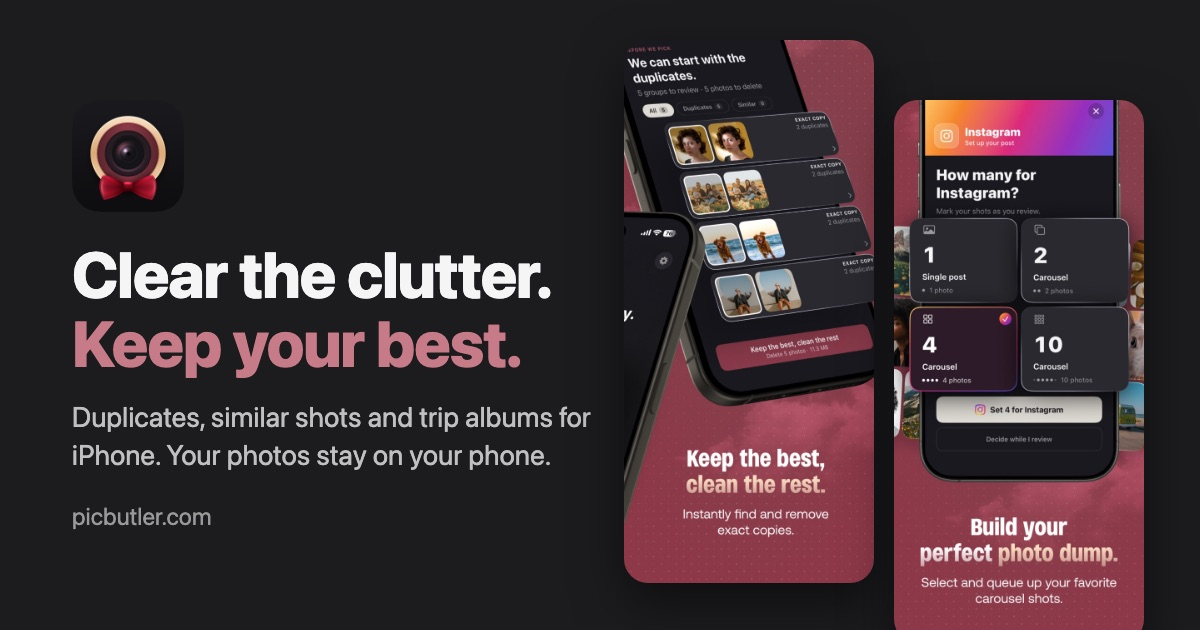
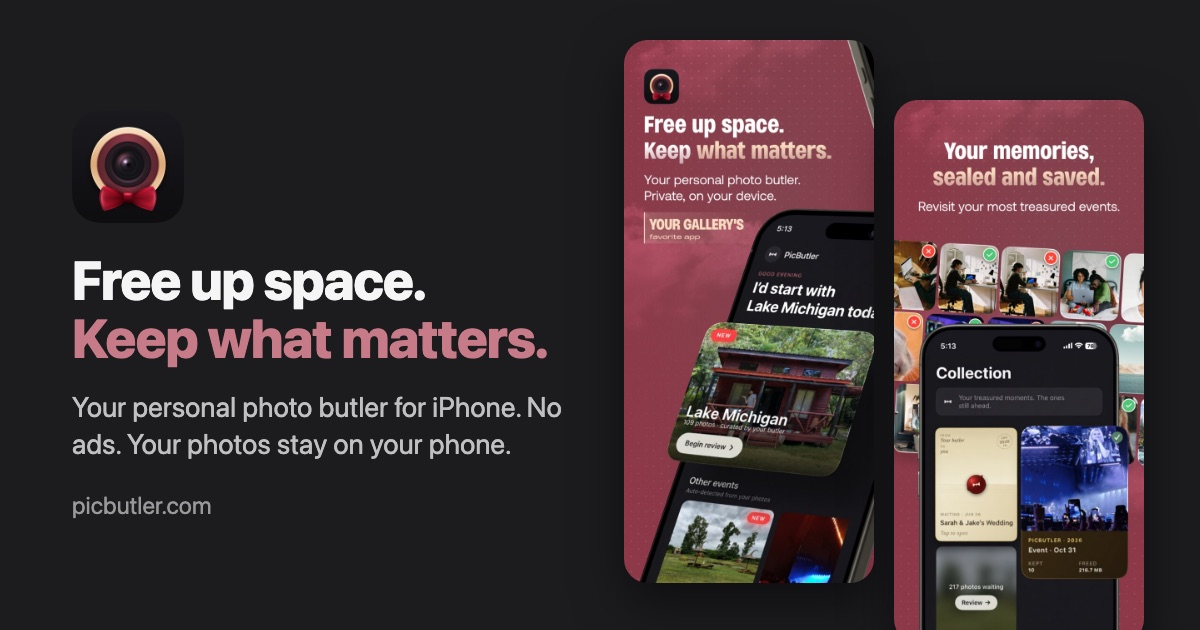
Positioning: 'Free up space. Keep what matters.' and the personal photo butler sentence everywhere; no ads; no AI slop; AI FAQ; new share image

diff --git a/index.html b/index.html
@@ -3,11 +3,11 @@
 <head>
     <meta charset="UTF-8">
     <meta name="viewport" content="width=device-width, initial-scale=1.0">
-    <title>PicButler: Photo Cleaner and Album Maker for iPhone</title>
-    <meta name="description" content="PicButler finds duplicate and similar photos on your iPhone, keeps the best shot, and turns your trips into albums. Your photos never leave your phone.">
+    <title>PicButler: Free Up Space, Keep What Matters</title>
+    <meta name="description" content="Free up space. Keep what matters. PicButler is your personal photo butler for iPhone: it keeps the photos you love as albums in Apple Photos. No ads.">
     <link rel="canonical" href="https://picbutler.com/">
-    <meta property="og:title" content="PicButler: Photo Cleaner and Album Maker for iPhone">
-    <meta property="og:description" content="Clear the clutter, keep your best, and turn your trips into albums. Everything runs on your iPhone.">
+    <meta property="og:title" content="PicButler: Free up space. Keep what matters.">
+    <meta property="og:description" content="Your personal photo butler for iPhone. It frees up storage and keeps the photos you love as albums. No ads, and your photos never leave your phone.">
     <meta property="og:type" content="website">
     <meta property="og:url" content="https://picbutler.com/">
     <meta property="og:image" content="https://picbutler.com/assets/picbutler-photo-cleaner-iphone.jpg">
@@ -35,7 +35,7 @@
           "@type": "MobileApplication",
           "@id": "https://picbutler.com/#app",
           "name": "PicButler: Photo Cleaner",
-          "description": "An iPhone app that finds duplicate and similar photos, keeps the best shot of each group with an explanation, and turns trips and events into albums in Apple Photos. Photo analysis runs on the iPhone.",
+          "description": "PicButler is your personal photo butler for iPhone. It frees up storage by going through your camera roll with you, month by month: it clears the clutter, helps you keep only the photos you love from every trip and event, and saves them as albums in Apple Photos. Everything stays on your phone.",
           "operatingSystem": "iOS 17.0 or later",
           "applicationCategory": "UtilitiesApplication",
           "url": "https://apps.apple.com/us/app/picbutler-photo-cleaner/id6760083866",
@@ -61,6 +61,7 @@
             { "@type": "Question", "name": "Is PicButler free?", "acceptedAnswer": { "@type": "Answer", "text": "Scanning your library, clearing screenshots and finishing your first album are free. Everything else needs PicButler Pro: $6.99 a month, or $29.99 a year with a 3-day free trial. You can cancel anytime from the App Store." } },
             { "@type": "Question", "name": "Does PicButler upload my photos?", "acceptedAnswer": { "@type": "Answer", "text": "No. PicButler analyzes your photos on your iPhone. Your photos never leave the device, and the only permission it asks for is access to your photo library." } },
             { "@type": "Question", "name": "How is PicButler different from the Duplicates album in Apple Photos?", "acceptedAnswer": { "@type": "Answer", "text": "Apple's Duplicates collection merges copies of the same photo. PicButler also groups photos that are similar but not identical, like several takes of the same pose, picks the best one by sharpness, lighting and resolution, and tells you why it won." } },
+            { "@type": "Question", "name": "Does PicButler use AI?", "acceptedAnswer": { "@type": "Answer", "text": "It uses Apple's on-device image analysis to group similar photos and to score sharpness, lighting and faces. It never generates or retouches your photos, it shows why it picked each one, and you always make the final call." } },
             { "@type": "Question", "name": "What happens to the photos I delete?", "acceptedAnswer": { "@type": "Answer", "text": "They go to the Recently Deleted album in Apple Photos, where you can recover them for 30 days. PicButler never deletes anything without your confirmation." } },
             { "@type": "Question", "name": "Which iPhones does PicButler work on?", "acceptedAnswer": { "@type": "Answer", "text": "Any iPhone running iOS 17 or later." } }
           ]
@@ -192,13 +193,13 @@
 
     <section class="hero">
         <img class="hero-icon" src="/assets/picbutler-app-icon.png" alt="PicButler app icon: a camera lens wearing a red bow tie" width="96" height="96">
-        <h1>Clear the clutter.<br><span>Keep your best.</span></h1>
-        <p class="subtitle">PicButler finds the duplicates and near-identical shots in your iPhone photo library, keeps the best one of each group, and turns your trips and events into albums.</p>
+        <h1>Free up space.<br><span>Keep what matters.</span></h1>
+        <p class="subtitle">Your personal photo butler goes through your camera roll with you, month by month, clears the clutter, and keeps the photos you love as albums.</p>
         <a class="app-store-badge" href="https://apps.apple.com/app/apple-store/id6760083866?pt=128539137&amp;mt=8&amp;ct=web">
             <img src="https://developer.apple.com/assets/elements/badges/download-on-the-app-store.svg" alt="Download PicButler on the App Store">
         </a>
         <p class="rating"><span class="stars" aria-hidden="true">&#9733;&#9733;&#9733;&#9733;&#9733;</span> Rated 4.9 out of 5 on the App Store</p>
-        <p class="pricing-hint">Free to scan. $29.99 a year with a 3-day free trial, or $6.99 a month.</p>
+        <p class="pricing-hint">Free to scan. No ads. $29.99 a year with a 3-day free trial, or $6.99 a month.</p>
     </section>
 
     <div class="gallery-wrap">
@@ -213,7 +214,7 @@
 
     <section class="definition">
         <h2>What is PicButler?</h2>
-        <p>PicButler is an iPhone app for cleaning up and organizing your photo library. It groups duplicate and similar photos, picks the best shot in each group by sharpness, lighting and resolution, and explains why it won. Then it helps you keep only what matters from each trip or event and saves it as an album in Apple Photos. Photo analysis runs on your iPhone.</p>
+        <p>PicButler is your personal photo butler for iPhone. It frees up storage by going through your camera roll with you, month by month: it clears the clutter, helps you keep only the photos you love from every trip and event, and saves them as albums in Apple Photos. Everything stays on your phone.</p>
     </section>
 
     <section>
@@ -266,7 +267,8 @@
         <ul class="check-list">
             <li>PicButler analyzes your photos on your device. They never leave it.</li>
             <li>It asks for one permission: your photo library. No contacts, microphone, calendar or location.</li>
-            <li>No ads inside the app, no tracking across other apps, and no "Allow tracking?" prompt.</li>
+            <li>No ads, ever. No tracking across other apps, and no "Allow tracking?" prompt.</li>
+            <li>No AI slop: PicButler never generates or retouches your photos. Every pick comes with its reason, and you make the call.</li>
             <li>Nothing is deleted without your confirmation, and deleted photos can be recovered for 30 days.</li>
         </ul>
     </section>
@@ -322,6 +324,9 @@
 
         <h3>How is PicButler different from the Duplicates album in Apple Photos?</h3>
         <p>Apple's Duplicates collection merges copies of the same photo. PicButler also groups photos that are similar but not identical, like several takes of the same pose, picks the best one by sharpness, lighting and resolution, and tells you why it won. <a href="/guides/duplicate-photos-iphone/">Read the full comparison</a>.</p>
+
+        <h3>Does PicButler use AI?</h3>
+        <p>It uses Apple's on-device image analysis to group similar photos and to score sharpness, lighting and faces. It never generates or retouches your photos, it shows why it picked each one, and you always make the final call.</p>
 
         <h3>What happens to the photos I delete?</h3>
         <p>They go to the Recently Deleted album in Apple Photos, where you can recover them for 30 days. PicButler never deletes anything without your confirmation.</p>

diff --git a/pricing.md b/pricing.md
@@ -17,6 +17,6 @@ Purchases and cancellations go through the App Store.
 - Free trial: 3 days
 - Includes: everything in PicButler
 
-Cancel anytime from the App Store. No weekly plans.
+Cancel anytime from the App Store. No weekly plans. No ads.
 
 App Store: https://apps.apple.com/app/apple-store/id6760083866?pt=128539137&mt=8&ct=web
